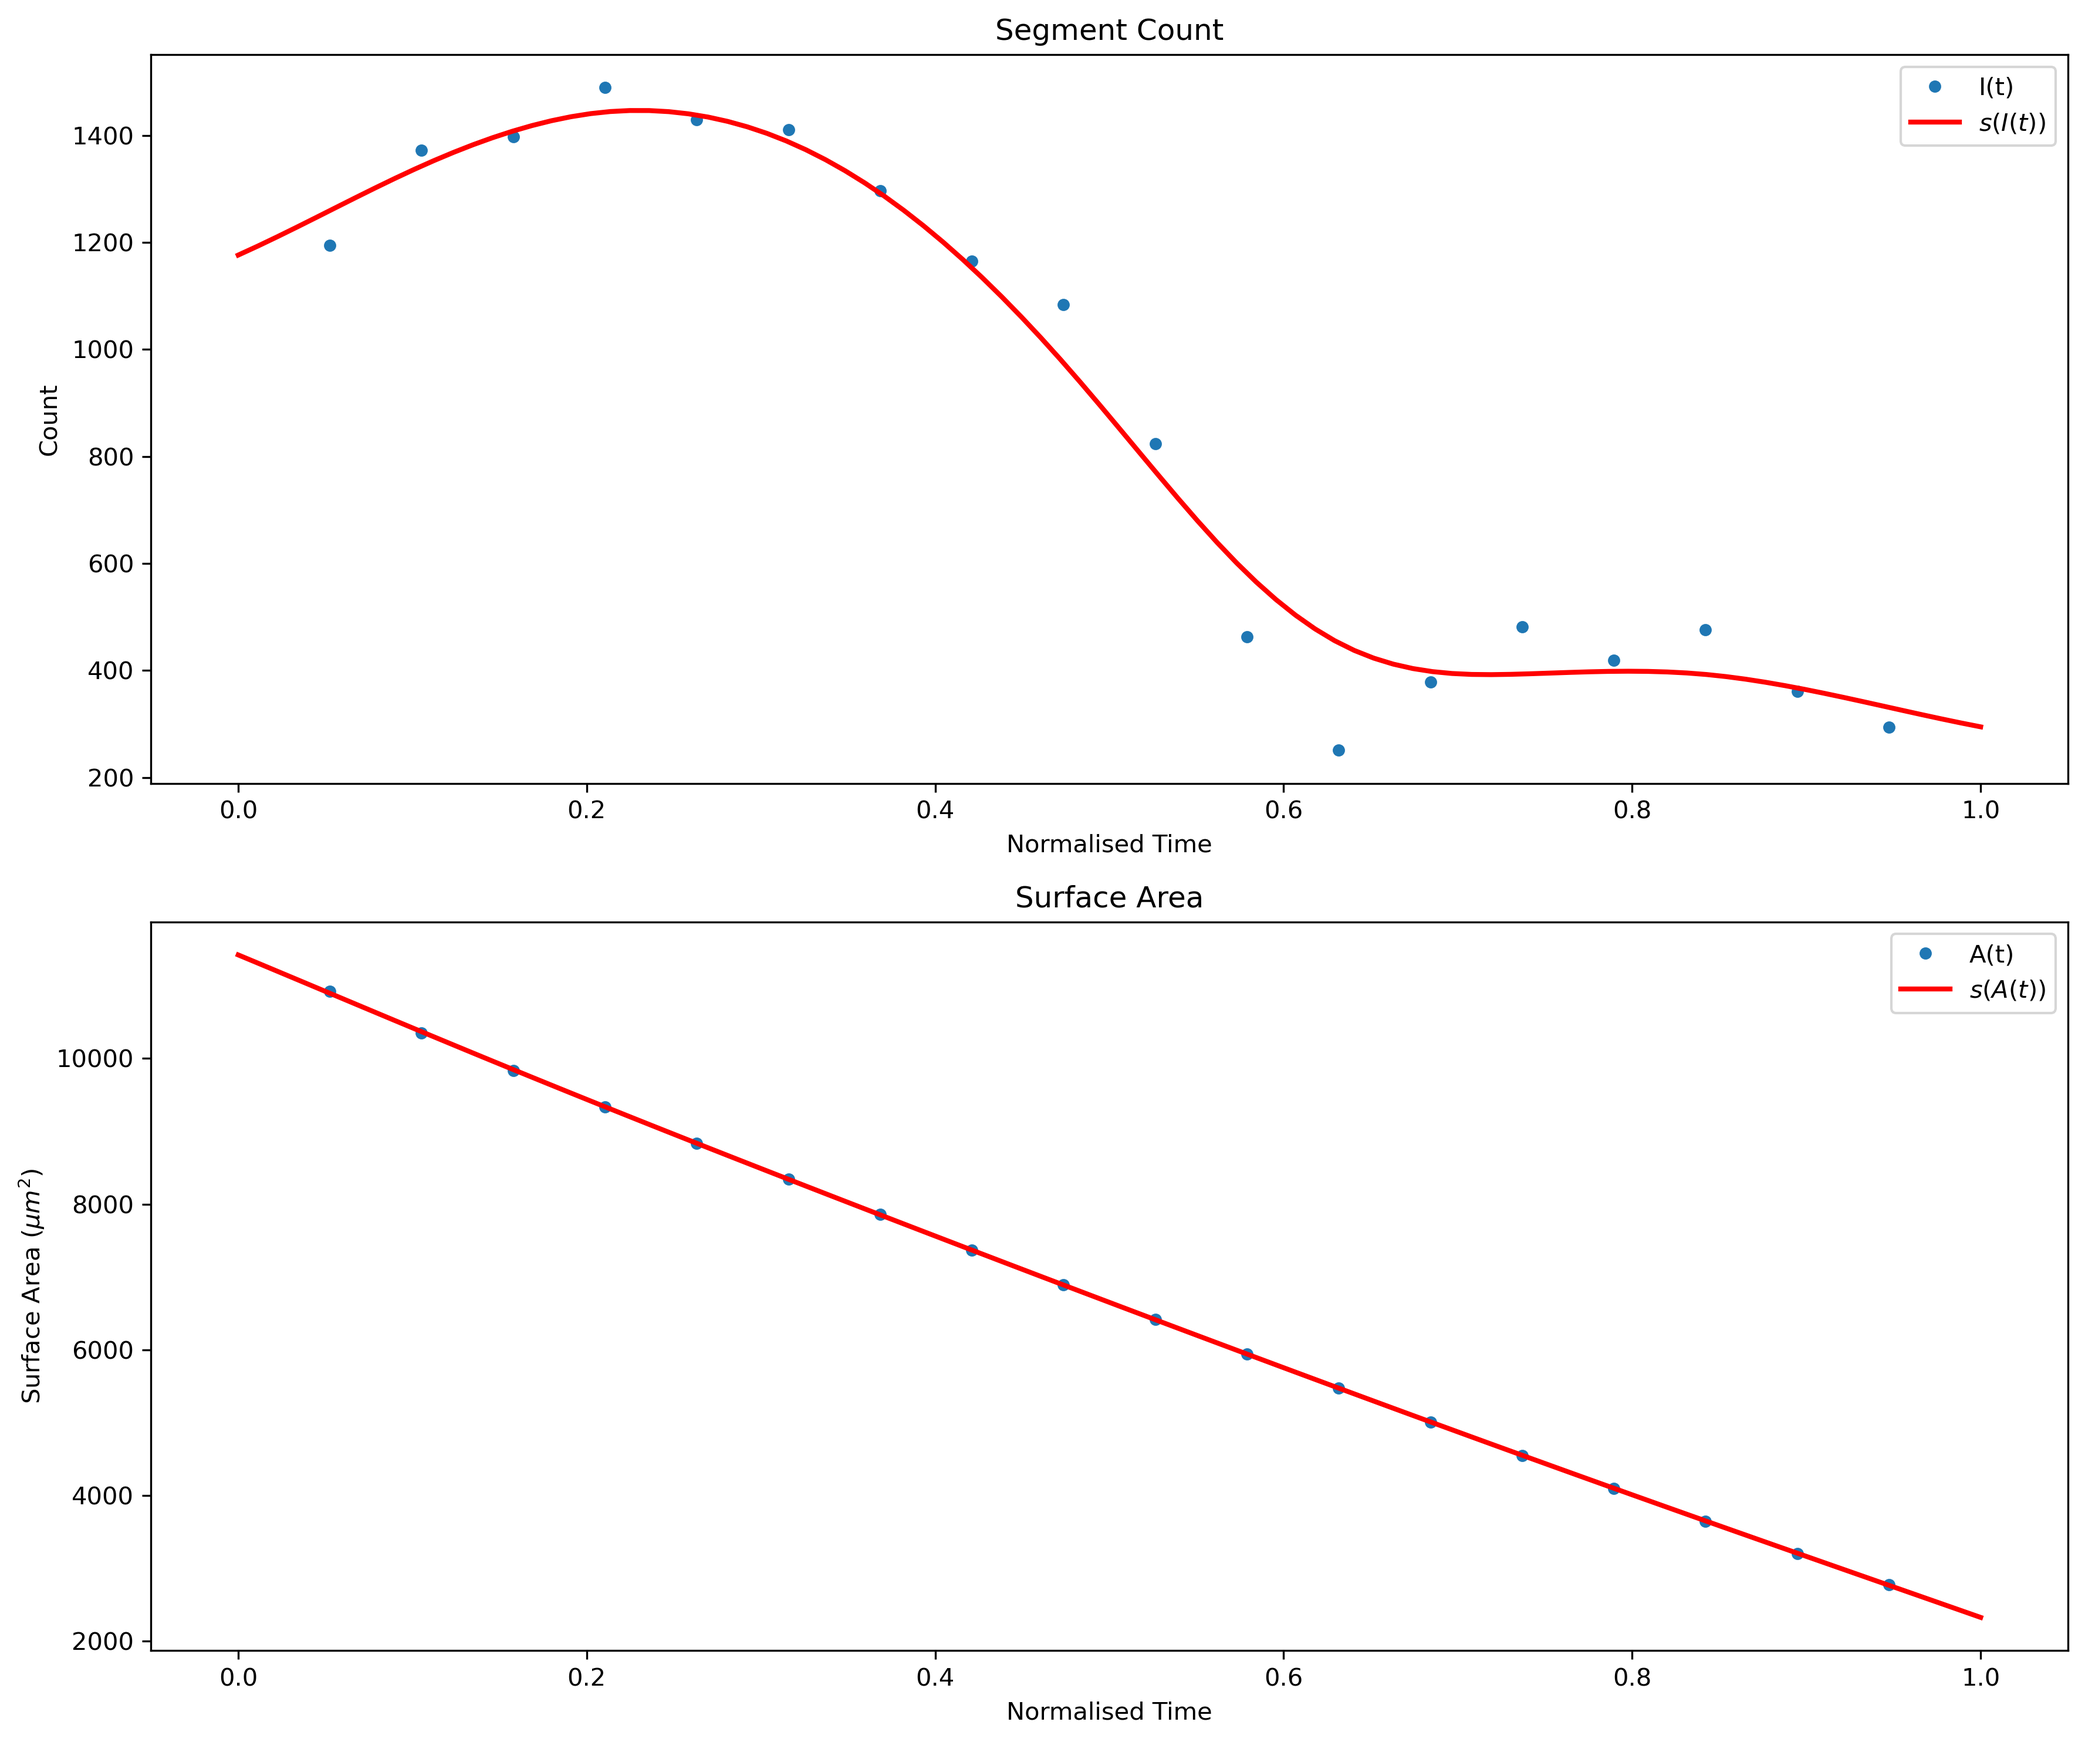
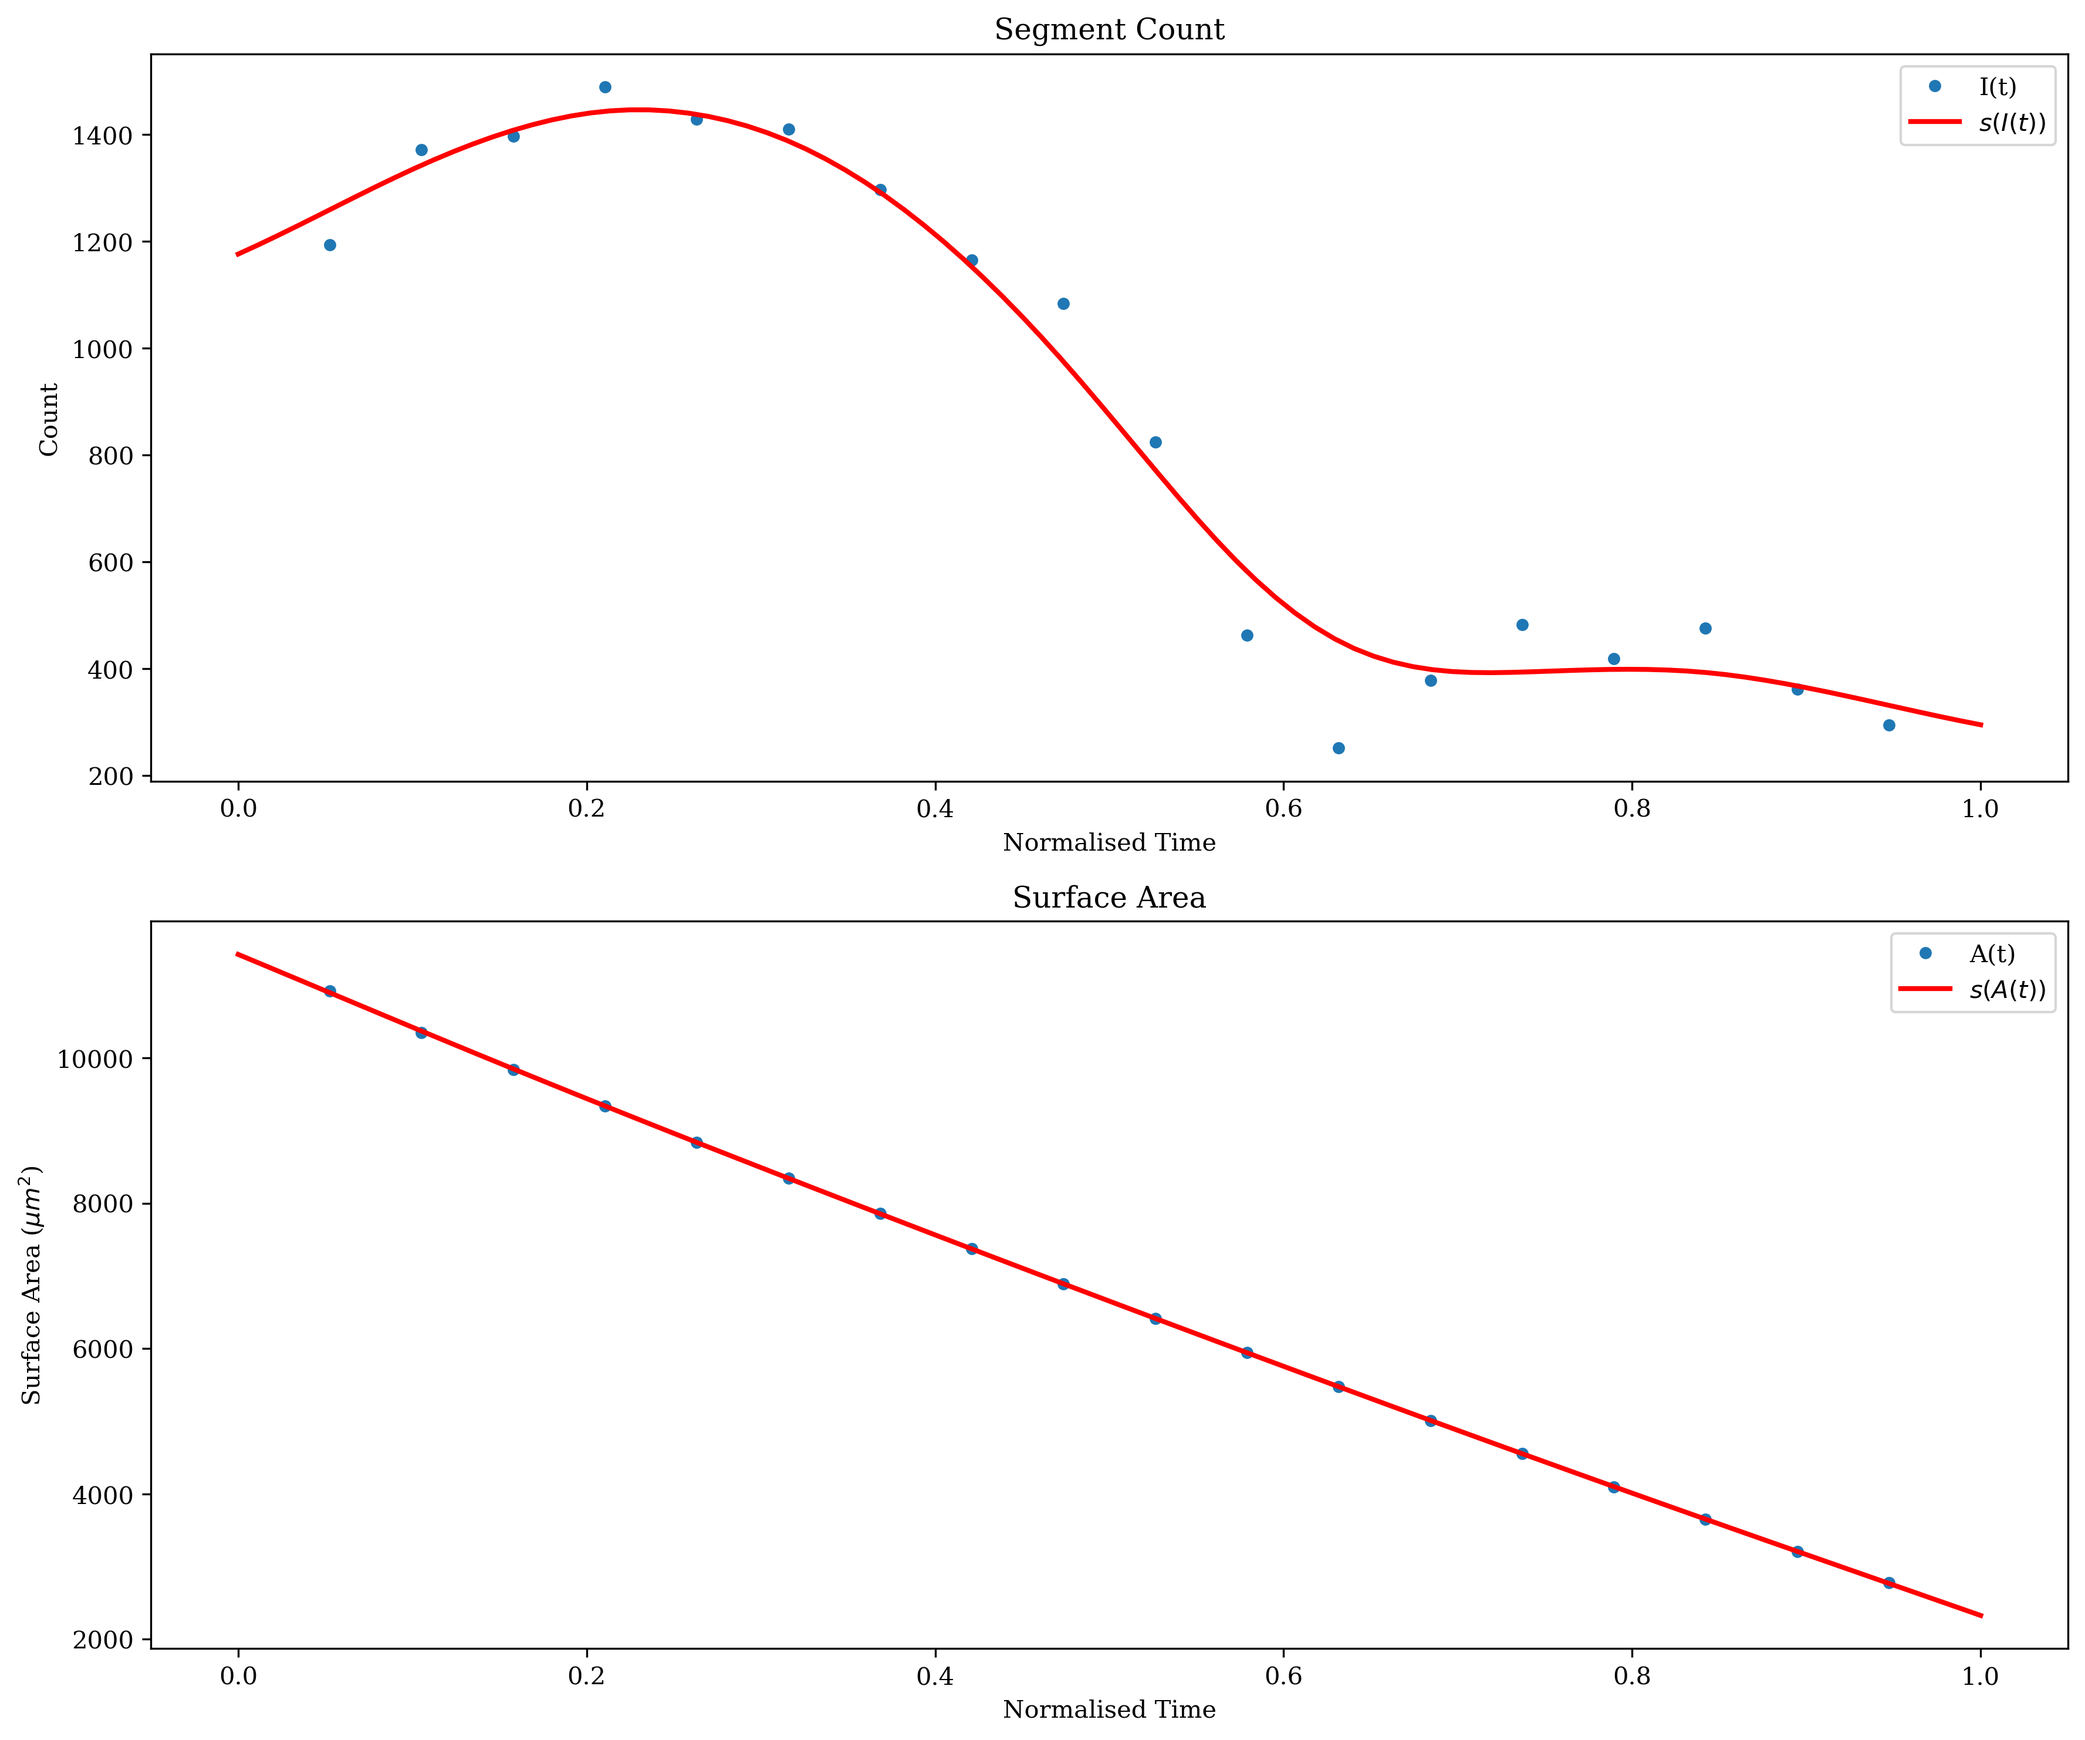
Minor visual changes

diff --git a/src/osteonx/visuals.py b/src/osteonx/visuals.py
@@ -133,11 +133,11 @@ def plot_cells_3d(
     Returns:
         mayavi.mlab.Figure or None: The mayavi figure if rendering succeeded.
     """
-    f = mlab.figure(size=(1000, 800), bgcolor=(1, 1, 1))
+    f = mlab.figure(size=(1000, 1000), bgcolor=(1, 1, 1))
 
     # Plot cells as points
     x, y, z = cells.T
-    mlab.points3d(x, y, z, scale_factor=1, color=(0, 0, 0), opacity=0.5)
+    mlab.points3d(x, y, z, scale_factor=1.5, color=(0, 0, 0), opacity=0.5)
 
     # Plot surfaces
     if phi is not None:
@@ -155,7 +155,7 @@ def plot_cells_3d(
     f.scene.parallel_projection = not perspective  # type: ignore
 
     if out:
-        mlab.savefig(out, size=(1000, 800))
+        mlab.savefig(out, size=(1000, 1000))
         mlab.close(all=True)
     else:
         mlab.show()
@@ -190,7 +190,7 @@ def plot_segments_3d(
     Returns:
         mayavi.mlab.Figure or None: The mayavi figure if rendering succeeded.
     """
-    f = mlab.figure(size=(1000, 800), bgcolor=(1, 1, 1))
+    f = mlab.figure(size=(1000, 1000), bgcolor=(1, 1, 1))
 
     # Plot cells as points
     mlab.quiver3d(
@@ -221,7 +221,7 @@ def plot_segments_3d(
     f.scene.parallel_projection = not perspective  # type: ignore
 
     if out:
-        mlab.savefig(out, size=(1000, 800))
+        mlab.savefig(out, size=(1000, 1000))
         mlab.close(all=True)
     else:
         mlab.show()

diff --git a/examples/segment_surface_density_analysis.py b/examples/segment_surface_density_analysis.py
@@ -15,6 +15,8 @@ from pathlib import Path
 import matplotlib.pyplot as plt
 import numpy as np
 
+plt.rcParams['font.family'] = 'serif'
+
 from osteonx import analysis, io, visuals, utils
 
 plt.ioff()
@@ -180,7 +182,7 @@ def main():
     ax.plot(t2, surface_density_smooth, "r-", linewidth=2, label="$\\tilde\\rho_A(t)$")
     ax.set_xlabel("Normalised Time", fontsize=12)
     ax.set_ylabel("Surface Density ($intersection/µm^2$)", fontsize=12)
-    ax.set_title("Segment Intersection Surface Density", fontsize=14, fontweight="bold")
+    # ax.set_title("Segment Intersection Surface Density", fontsize=14, fontweight="bold")
     ax.legend()
 
     plt.tight_layout()
@@ -196,6 +198,7 @@ def main():
         segments=segments,
         deltas=deltas,
         phi=phi,
+        perspective=False,
         out=str(figures_output_path / "segment_3d.png"),
     )
 

diff --git a/examples/cell_density_analysis.py b/examples/cell_density_analysis.py
@@ -15,6 +15,8 @@ from pathlib import Path
 import matplotlib.pyplot as plt
 import numpy as np
 
+plt.rcParams['font.family'] = 'serif'
+
 from osteonx import analysis, io, visuals, utils
 
 plt.ioff()
@@ -196,7 +198,7 @@ def main():
     ax.plot(t2, density_smooth, "r-", linewidth=2, label="$\\tilde\\rho(t)$")
     ax.set_xlabel("Normalised Time", fontsize=12)
     ax.set_ylabel("Density ($cell/µm^3$)", fontsize=12)
-    ax.set_title("Cell Density", fontsize=14, fontweight="bold")
+    # ax.set_title("Cell Density", fontsize=14, fontweight="bold")
     ax.legend()
 
     plt.tight_layout()
@@ -211,6 +213,7 @@ def main():
     fig = visuals.plot_cells_3d(
         cells=cells,
         phi=phi,
+        perspective=False,
         out=str(figures_output_path / "cells_3d.png"),
     )
 
